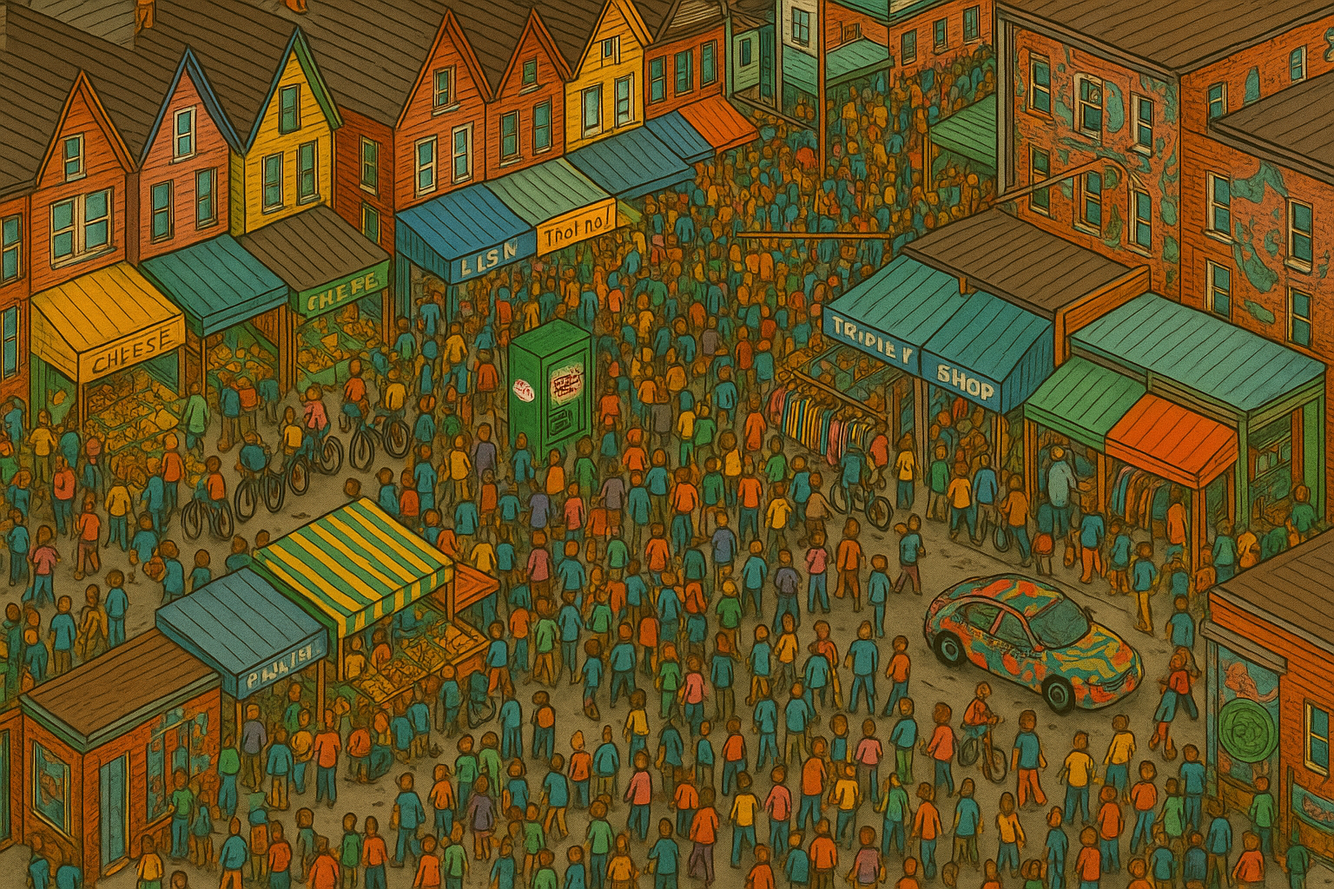
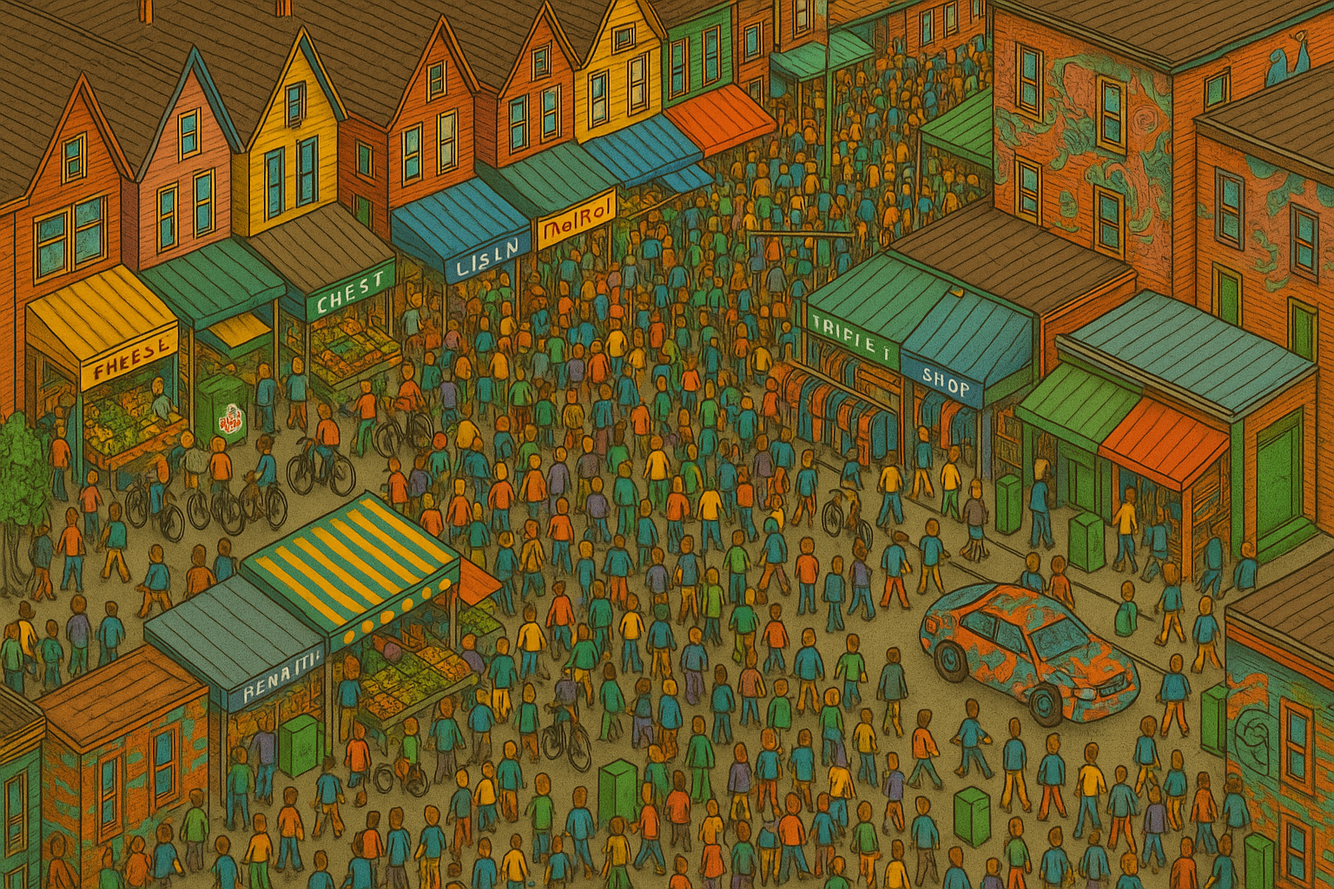
Regenerate all 10 scenes with camouflaged machine placements + Waldo techniques

diff --git a/index.html b/index.html
@@ -995,16 +995,16 @@ html, body {
 <script>
 // ===== SCENE DATA =====
 const SCENES = [
-  { img: 'scenes/scene1.png',  name: 'Kensington Market',      vendingX: 0.370, vendingY: 0.420 },
-  { img: 'scenes/scene2.png',  name: 'Nathan Phillips Square', vendingX: 0.300, vendingY: 0.420 },
-  { img: 'scenes/scene3.png',  name: 'Dundas Square',          vendingX: 0.300, vendingY: 0.550 },
-  { img: 'scenes/scene4.png',  name: 'St. Lawrence Market',    vendingX: 0.350, vendingY: 0.520 },
-  { img: 'scenes/scene5.png',  name: 'High Park',              vendingX: 0.470, vendingY: 0.480 },
-  { img: 'scenes/scene6.png',  name: 'Toronto Islands',        vendingX: 0.280, vendingY: 0.680 },
-  { img: 'scenes/scene7.png',  name: 'Chinatown Spadina',      vendingX: 0.420, vendingY: 0.420 },
-  { img: 'scenes/scene8.png',  name: 'PATH Underground',       vendingX: 0.320, vendingY: 0.680 },
-  { img: 'scenes/scene9.png',  name: 'Distillery District',    vendingX: 0.350, vendingY: 0.400 },
-  { img: 'scenes/scene10.png', name: 'Gardiner Museum',        vendingX: 0.420, vendingY: 0.350 },
+  { img: 'scenes/scene1.png',  name: 'Kensington Market',      vendingX: 0.08, vendingY: 0.82 },
+  { img: 'scenes/scene2.png',  name: 'Nathan Phillips Square', vendingX: 0.92, vendingY: 0.35 },
+  { img: 'scenes/scene3.png',  name: 'Dundas Square',          vendingX: 0.15, vendingY: 0.45 },
+  { img: 'scenes/scene4.png',  name: 'St. Lawrence Market',    vendingX: 0.75, vendingY: 0.72 },
+  { img: 'scenes/scene5.png',  name: 'High Park',              vendingX: 0.55, vendingY: 0.25 },
+  { img: 'scenes/scene6.png',  name: 'Toronto Islands',        vendingX: 0.88, vendingY: 0.60 },
+  { img: 'scenes/scene7.png',  name: 'Chinatown Spadina',      vendingX: 0.42, vendingY: 0.80 },
+  { img: 'scenes/scene8.png',  name: 'PATH Underground',       vendingX: 0.20, vendingY: 0.30 },
+  { img: 'scenes/scene9.png',  name: 'Distillery District',    vendingX: 0.65, vendingY: 0.88 },
+  { img: 'scenes/scene10.png', name: 'Gardiner Museum',        vendingX: 0.50, vendingY: 0.50 },
 ];
 
 const HIT_RADIUS = 120;
